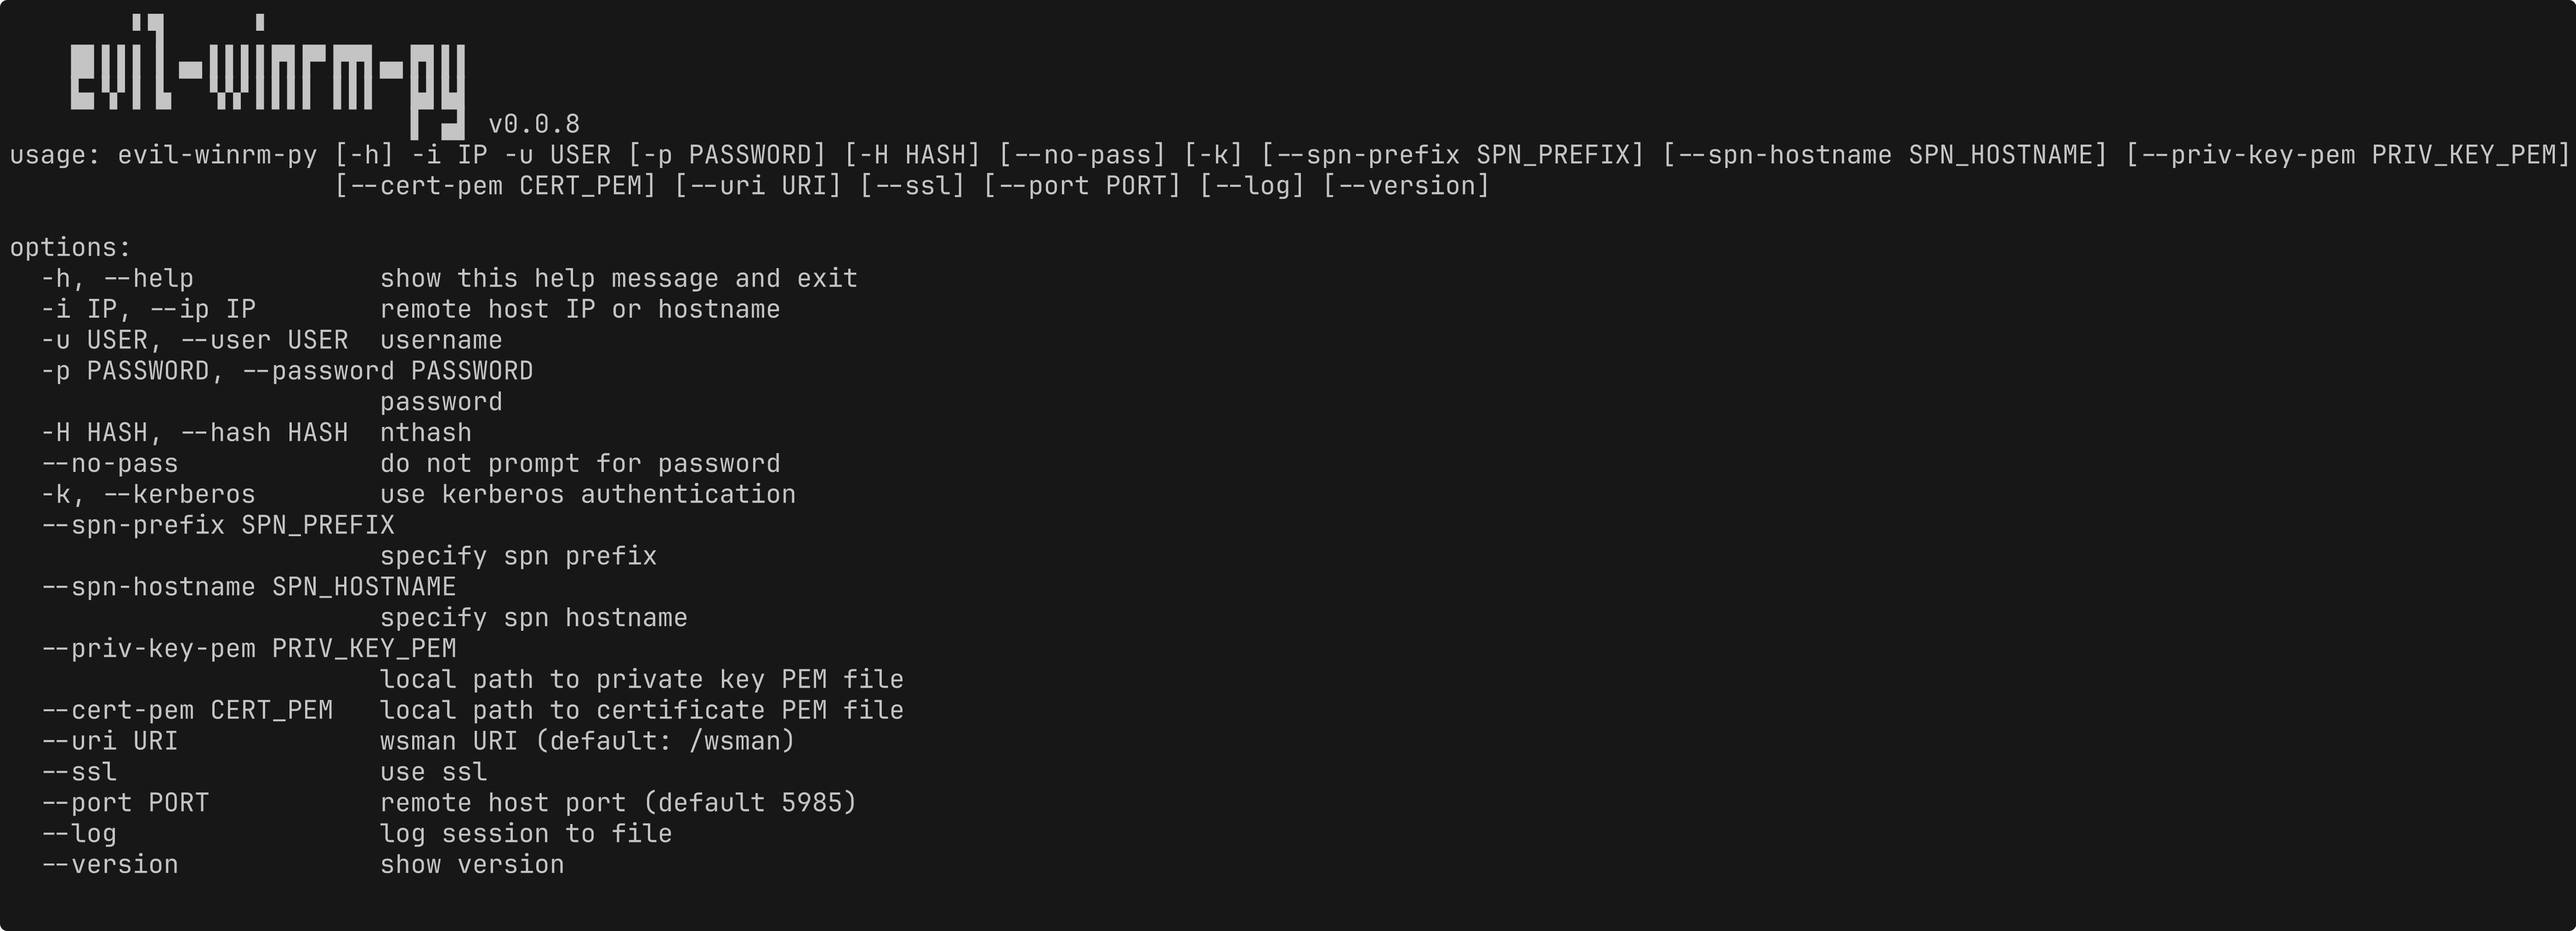
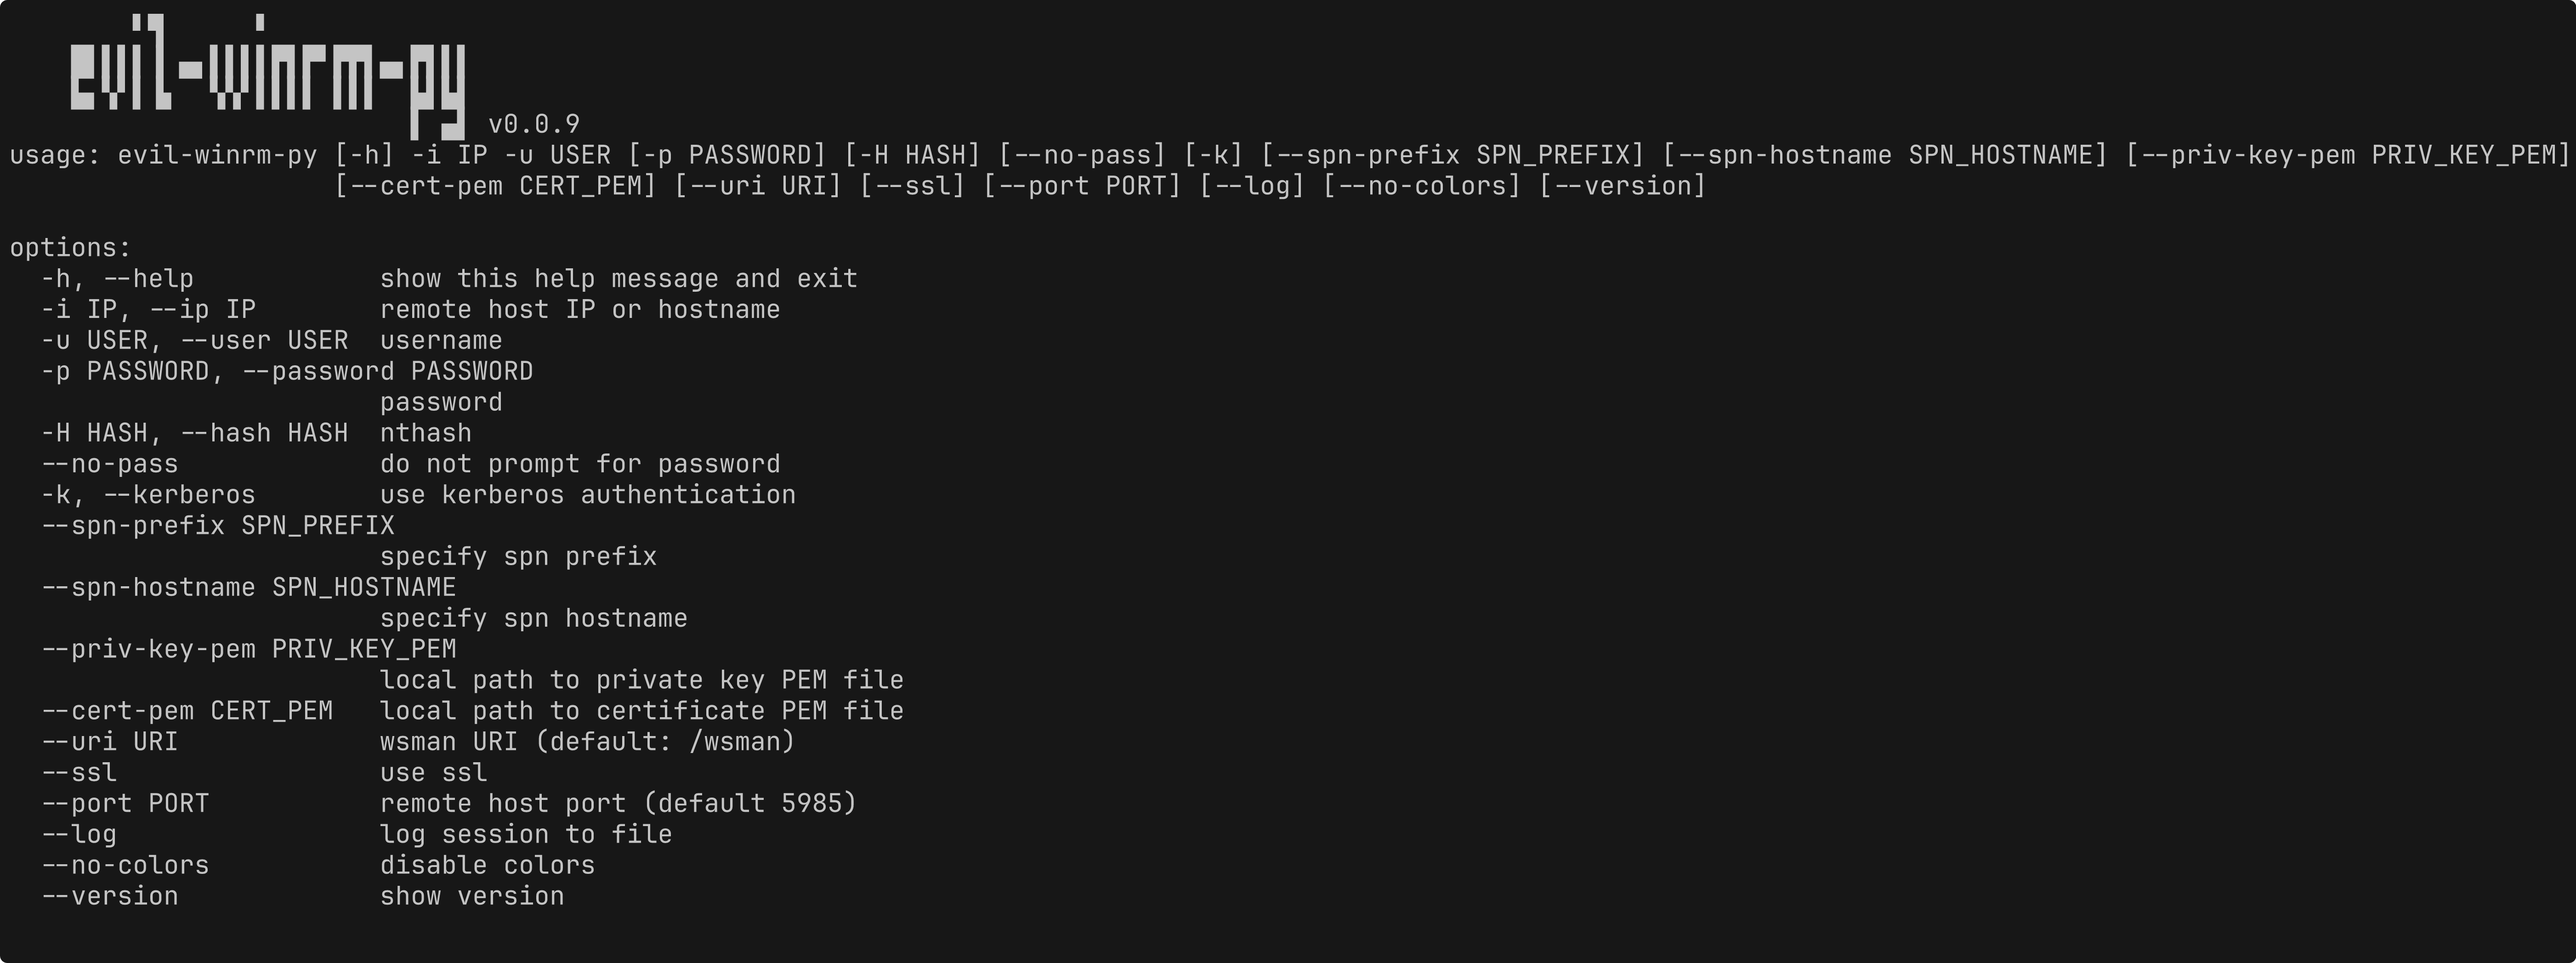
Bump version to 0.0.9

diff --git a/evil_winrm_py/__init__.py b/evil_winrm_py/__init__.py
@@ -1,1 +1,1 @@
-__version__ = "0.0.8"
+__version__ = "0.0.9"

diff --git a/README.md b/README.md
@@ -6,7 +6,7 @@
 
 `evil-winrm-py` is a python-based tool for executing commands on remote Windows machines using the WinRM (Windows Remote Management) protocol. It provides an interactive shell.
 
-![](https://raw.githubusercontent.com/adityatelange/evil-winrm-py/refs/tags/v0.0.8/assets/terminal.png)
+![](https://raw.githubusercontent.com/adityatelange/evil-winrm-py/refs/tags/v0.0.9/assets/terminal.png)
 
 > [!NOTE]
 > This tool is designed strictly for educational, ethical use, and authorized penetration testing. Always ensure you have explicit authorization before accessing any system. Unauthorized access or misuse of this tool is both illegal and unethical.
@@ -75,8 +75,9 @@ pip uninstall evil-winrm-py
 ## Usage
 
 ```bash
-usage: evil-winrm-py [-h] -i IP -u USER [-p PASSWORD] [-H HASH] [--no-pass] [-k] [--spn-prefix SPN_PREFIX] [--spn-hostname SPN_HOSTNAME] [--priv-key-pem PRIV_KEY_PEM] [--cert-pem CERT_PEM] [--uri URI] [--ssl] [--port PORT] [--log]
-                     [--no-colors] [--version]
+usage: evil-winrm-py [-h] -i IP -u USER [-p PASSWORD] [-H HASH] [--no-pass] [-k] [--spn-prefix SPN_PREFIX] [--spn-hostname SPN_HOSTNAME] [--priv-key-pem PRIV_KEY_PEM]
+                     [--cert-pem CERT_PEM] [--uri URI] [--ssl] [--port PORT] [--log] [--no-colors] [--version]
+
 options:
   -h, --help            show this help message and exit
   -i IP, --ip IP        remote host IP or hostname
